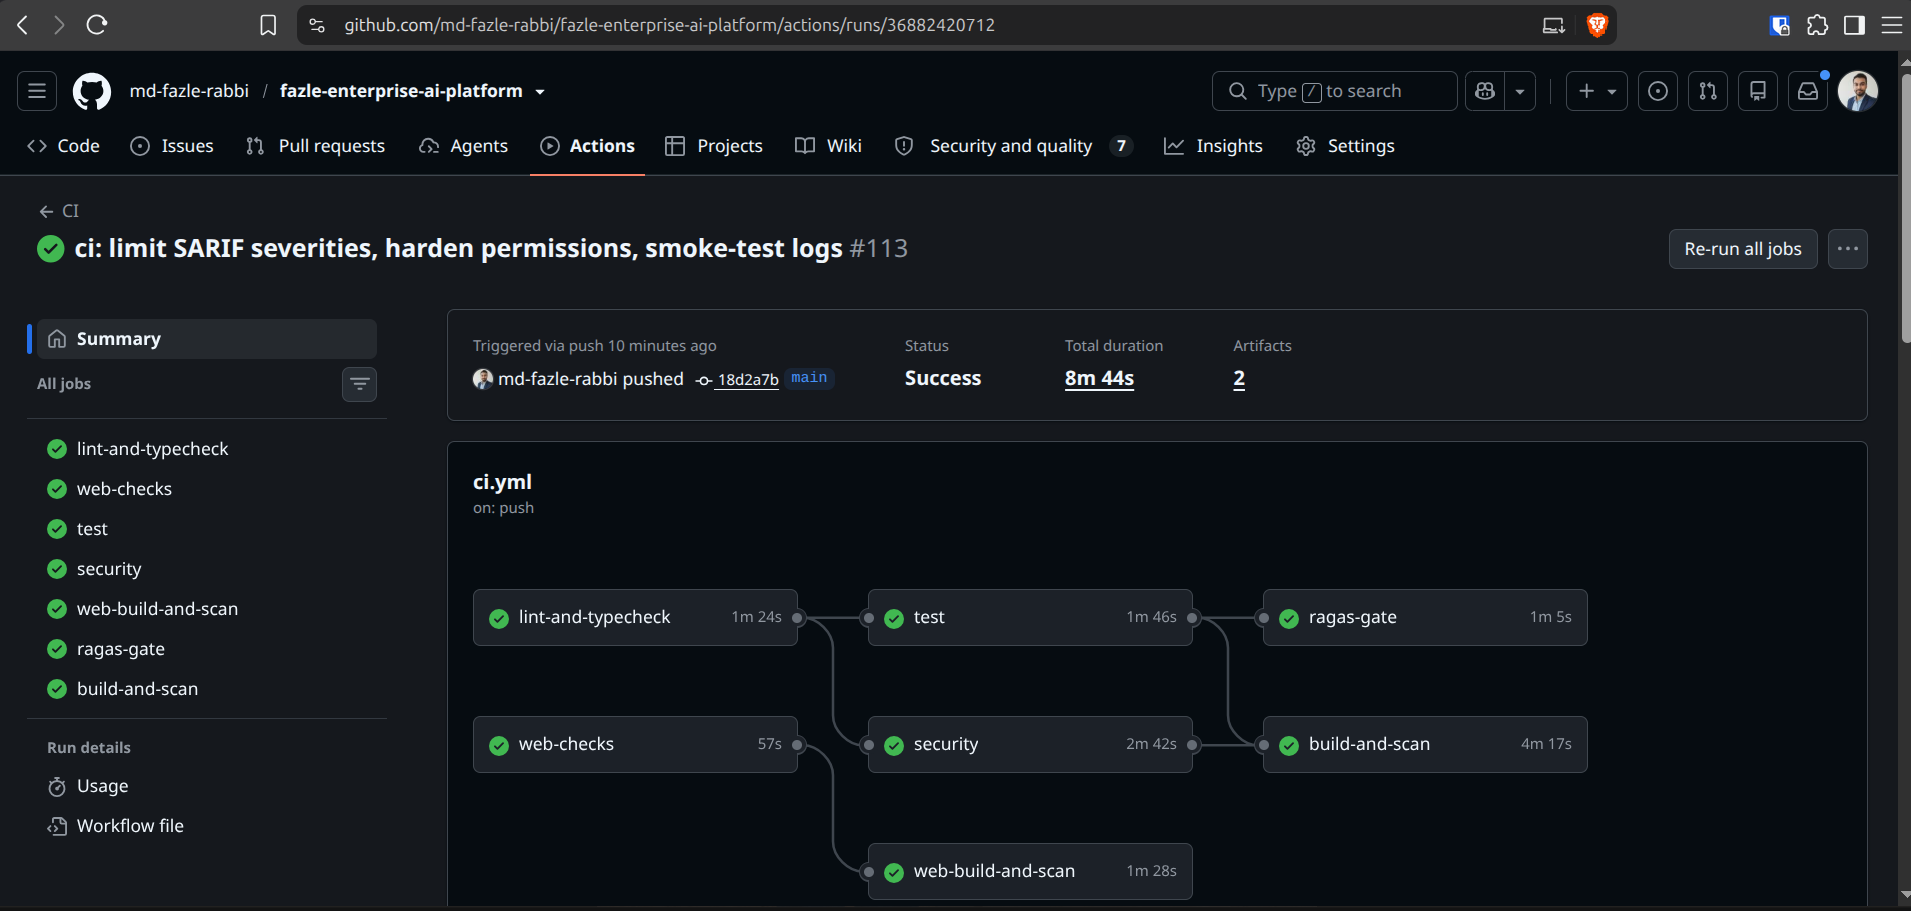
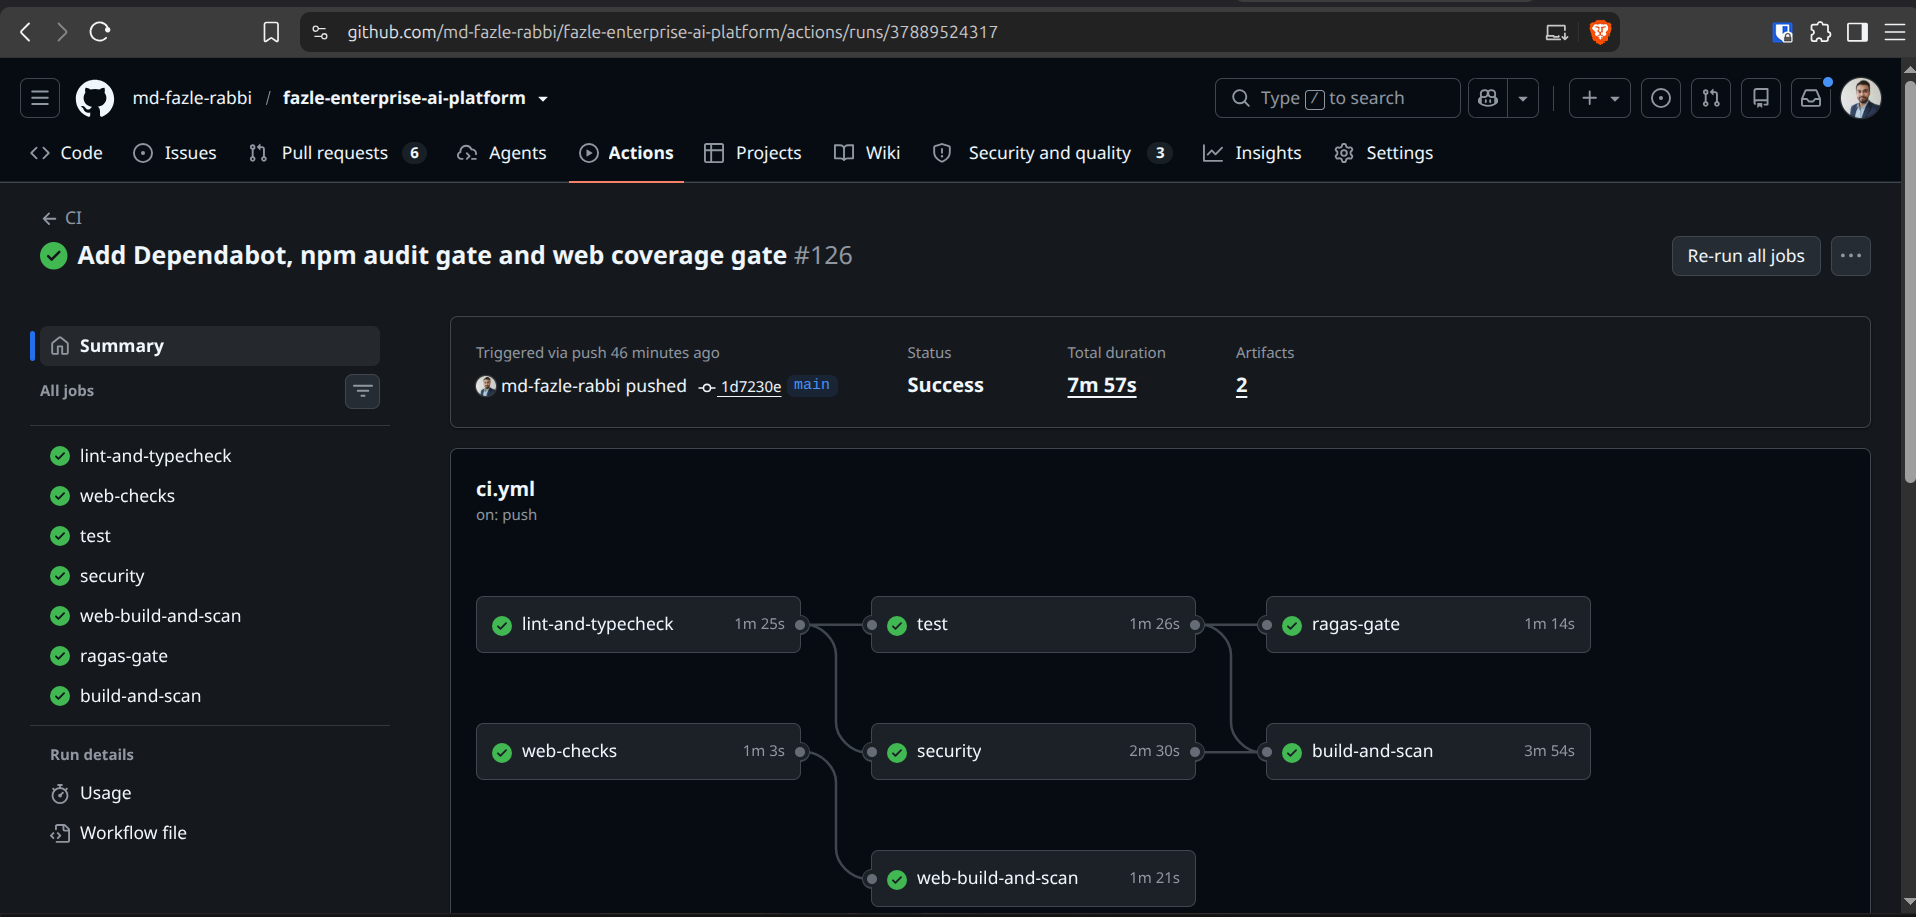
Remove unsupported uv ecosystem from Dependabot, document gap

diff --git a/README.md b/README.md
@@ -194,6 +194,7 @@ Stated plainly, not left for a client to discover.
 - The web app has a coverage gate in CI (statements 78, branches 82, functions 66, lines 79 percent), set 2 points below measured coverage (80.16, 84.08, 68.08, 81.4) so it blocks drops and does not claim high coverage. The page and route files under `src/app` have no unit tests, which is why functions coverage is only about 68 percent. The gate was checked to fail by forcing `lines=99`, see `proof/web-coverage-gate-negative-test.txt`
 - `npm audit` gates production dependencies at high severity and above, for `apps/web` and the repo root (0 vulnerabilities at the last run). It has been verified to pass; it has not yet been verified to fail on a real finding in CI. Dev dependencies are not gated
 - One dev-only advisory is open: `braces` (GHSA-vfj7-8cjw-p6xm), reached through `eslint-config-next`. GitHub lists no patched version, and it is not in any production dependency. It is tracked with a review date in `docs/security-exceptions.md`
+- Dependabot does not cover Python dependencies (its uv job errors on this repo). Python advisories are checked by `pip-audit` in CI, which does not fail the build yet
 
 **API**
 - Concurrent load p95 not yet published, third party free tier throughput ceiling, not an application limit

diff --git a/docs/adr/ADR-028-dependency-update-and-audit-policy.md b/docs/adr/ADR-028-dependency-update-and-audit-policy.md
@@ -34,3 +34,8 @@ Risks and mitigations:
   RAGAS jobs may fail on them. Mitigation: review and run those locally before merging.
 - Dependabot support for uv workspace members and override-dependencies is unverified
   until the first uv PR appears. Mitigation: read that PR before trusting the setup.
+
+## Update 2026-10-09
+Dependabot's uv job errored on this repo ("Dependabot does not support your uv version"), so the
+uv ecosystem was removed from dependabot.yml. Python advisories are covered only by pip-audit in
+CI, which is still non-blocking. Open item: triage the pip-audit findings, then make it blocking.
